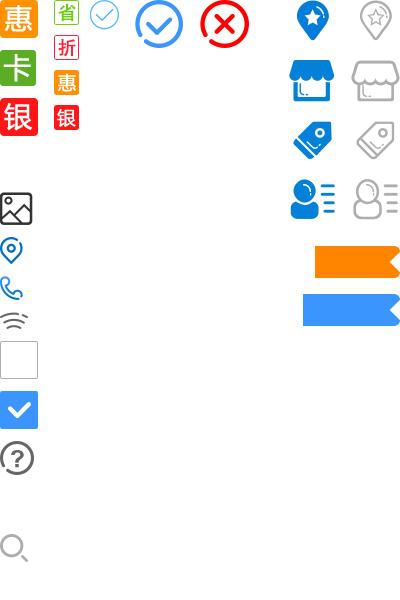
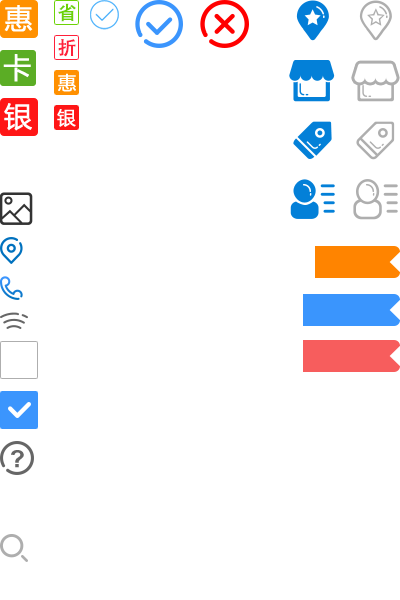
我的中心-增加支付失败标签

Changed region(s): [[0.75, 0.54, 1.0, 0.63]]

diff --git a/my-center.html b/my-center.html
@@ -80,6 +80,33 @@
         </div>
       </div>
     </div>
+    <div class="iteminfo bd-b">
+      <a href="###" class="infolist bd-n clearfix">
+        <div class="store-img"><img src="images/store.jpg" width="67" height="67"><i class="all_bg red">支付失败</i></div>
+        <div class="fr wp75">
+          <dl>
+            <dt>Orange（陆家嘴店）</dt>
+            <dd class="gray">
+              <span>白金储蓄卡</span>
+            </dd>
+            <dd class="gray">
+              <span>09-25</span>
+              <span>19:36</span>
+            </dd>
+            <dd class="gray">
+              <span>面值：￥100</span>
+              <span>购卡金额：￥88</span>
+            </dd>
+          </dl>
+        </div>
+      </a>
+      <div class="order-link">
+        <label>买单</label>
+        <div class="fr">
+          <input type="button" class="gray" value="详情">
+        </div>
+      </div>
+    </div>
   </div>
 </div>
 </body>

diff --git a/css/layout.css b/css/layout.css
@@ -1022,6 +1022,16 @@
   left: 0;
   font-size: 11px;
 }
+.infolist .store-img i.red{
+  width: 48px;
+  height: 16px;
+  background-position: right -170px;
+  color: #fff;
+  position: absolute;
+  top: 0;
+  left: 0;
+  font-size: 11px;
+}
 .card-box.whole .rule-list li label.wp35{
   width: 35%;
 }
